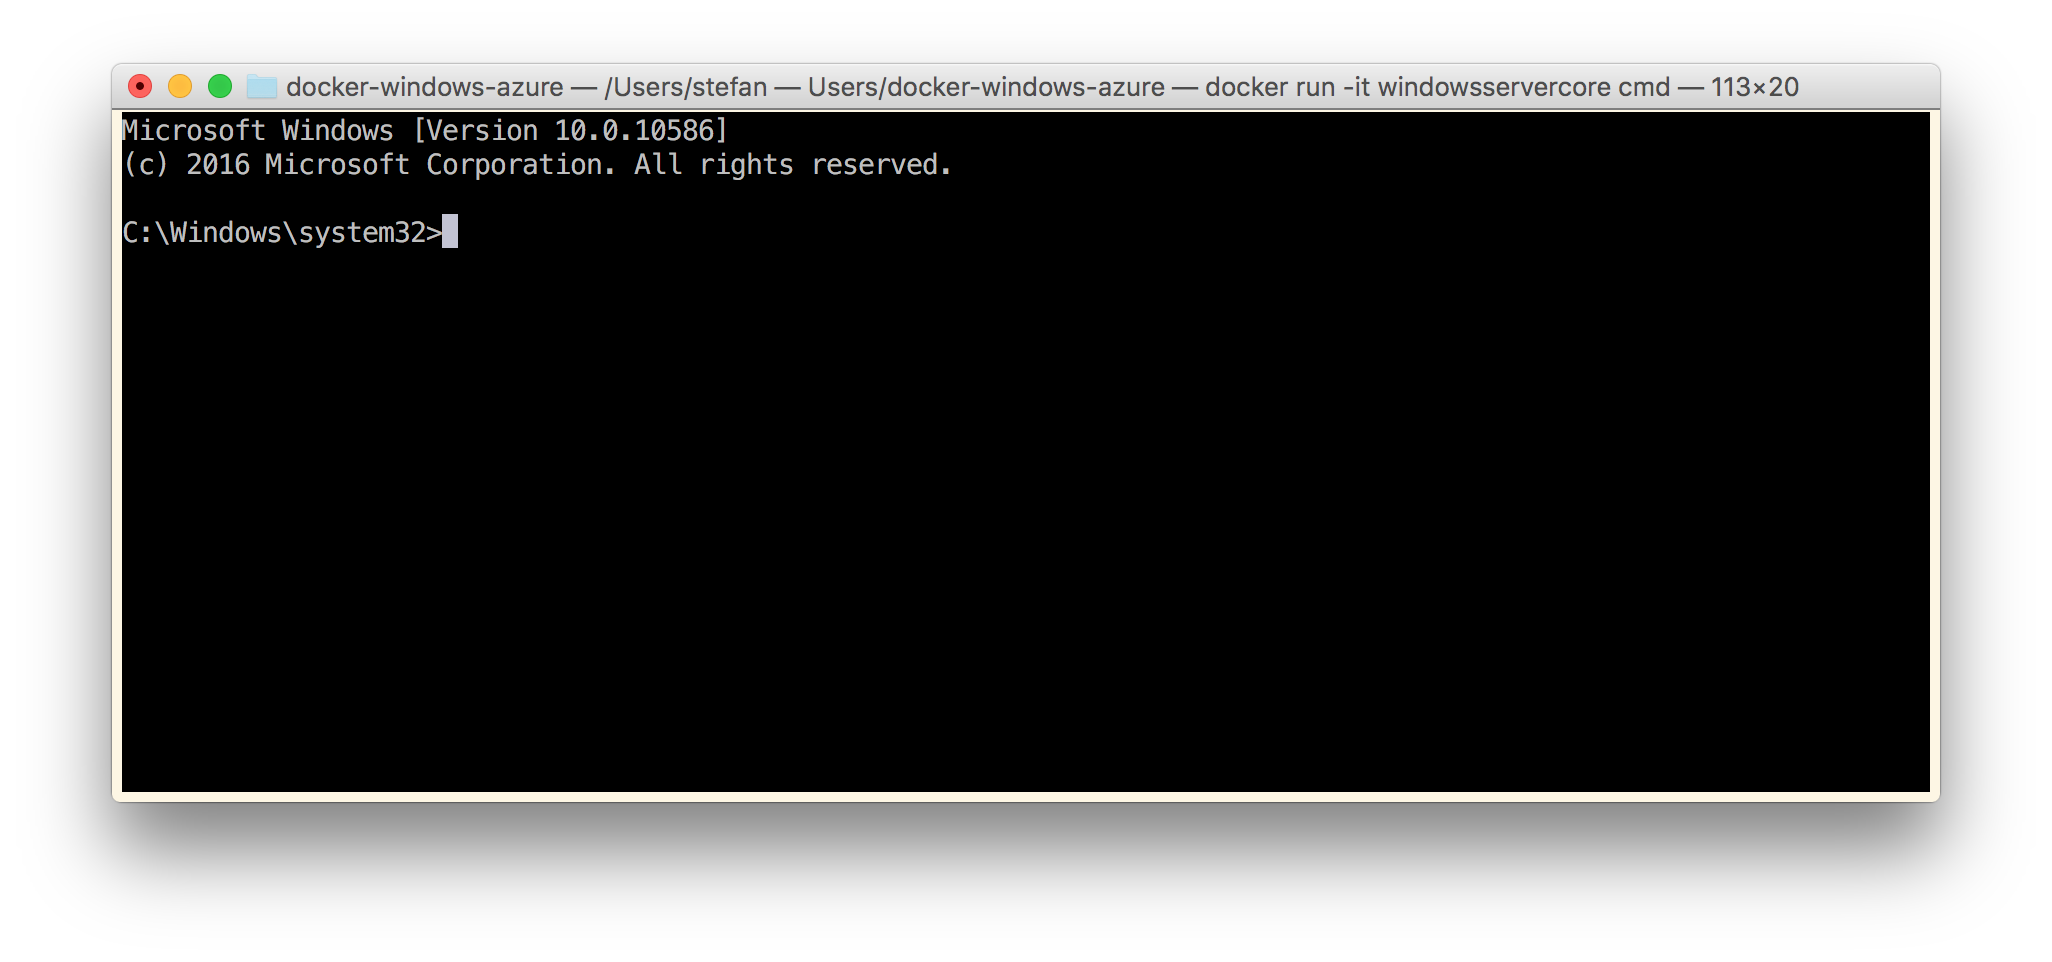
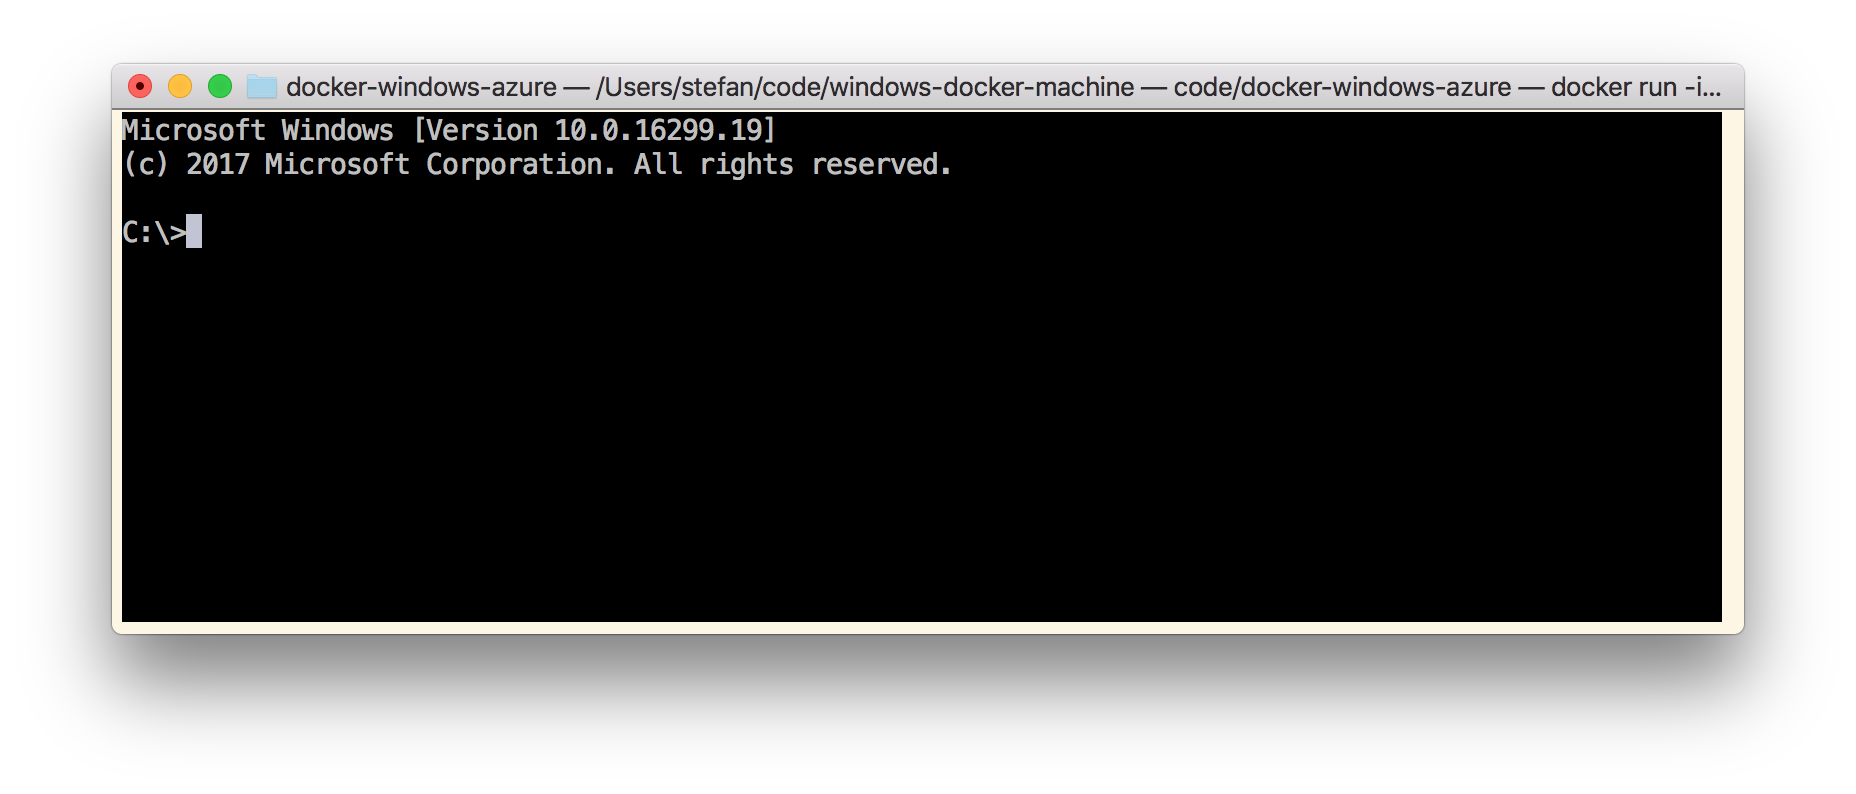
Update README

Changed region(s): [[0.0312, 0.0605, 0.9688, 0.9068]]

diff --git a/README.md b/README.md
@@ -24,44 +24,30 @@ These templates will deploy and configure a Windows Server 2016/1709 VM instance
   * base OS image microsoft/windowsservercore:10.0.14393.x
   * base OS image microsoft/nanoserver:10.0.14393.x
 * Create TLS certificates for the Docker Engine
+* Prepare a `docker-machine` configuration in `C:\.docker\machine\machines`
 * Open Ports for RDP and Docker (HTTP secure), HTTP 80, HTTPS 443.
 * Install additional Docker tools:
   * Docker Compose
   * Docker Machine
 
-## azure-cli
-
-Additional to the "Deploy to Azure" button above you can deploy the VM with the `azure` cli as well:
-
-```
-azure config mode arm
-azure group deployment create Group docker \
-  --template-uri https://raw.githubusercontent.com/StefanScherer/docker-windows-azure/master/2016/azuredeploy.json \
-  -p '{
-    "adminUsername": {"value": "docker"},
-    "adminPassword": {"value": "Super$ecretPass123"},
-    "dnsNameForPublicIP": {"value": "docker"},
-    "VMName": {"value": "docker"},
-    "location": {"value": "North Europe"}
-    }'
-```
-
-To retrieve the IP address or the FQDN use these commands
-
-```bash
-azure vm show Group docker | grep "Public IP address" | cut -d : -f 3
-1.2.3.4
-
-azure vm show Group docker | grep FQDN | cut -d : -f 3 | head -1
-docker.northeurope.cloudapp.azure.com
-```
-
 ## Connect to Docker Engine
 
 To connect to the Windows Docker Engine from a notebook you just have to copy the TLS certificates
-for the user's profile to your home directory.
+from the Azure VM `C:\.docker\machine\machines` to your home directory -> `.docker/machine/machines`.
 
-The thee `unset` commands are useful if you use `docker-machine` to connect to different VM's with TLS. This turns off TLS so you can then run `docker` commands like
+Now you can use the local `docker-machine` binary to switch environment variables to connect to the Docker engine running in the Azure VM.
+
+Bash
+```bash
+$ eval $(docker-machine env az1709)
+```
+
+PowerShell
+```bash
+PS C:\> docker-machine env az1709 | iex
+```
+
+Now you are connected with the TLS protected Docker API of your Azure VM.
 
 ```bash
 docker images
@@ -71,7 +57,7 @@ docker images
 or start your first Windows container eg. from your Mac
 
 ```bash
-docker run -it windowsservercore cmd
+docker run -it microsoft/windowsservercore:1709 cmd
 ```
 ![docker-run-cmd](images/docker-run-cmd.png)
 
